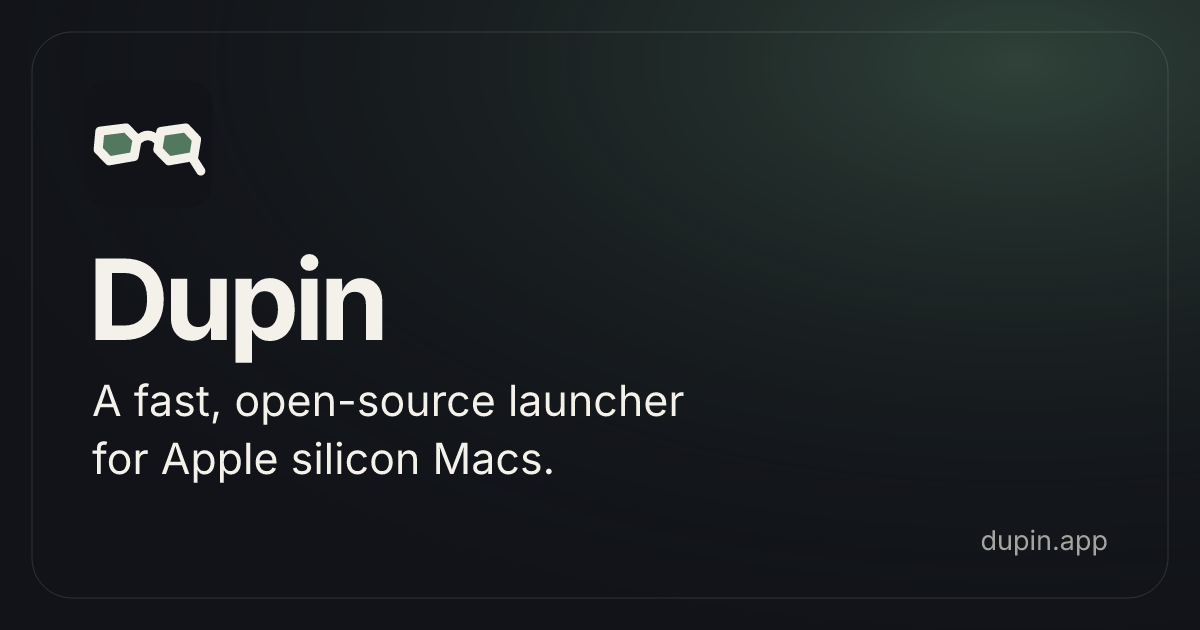
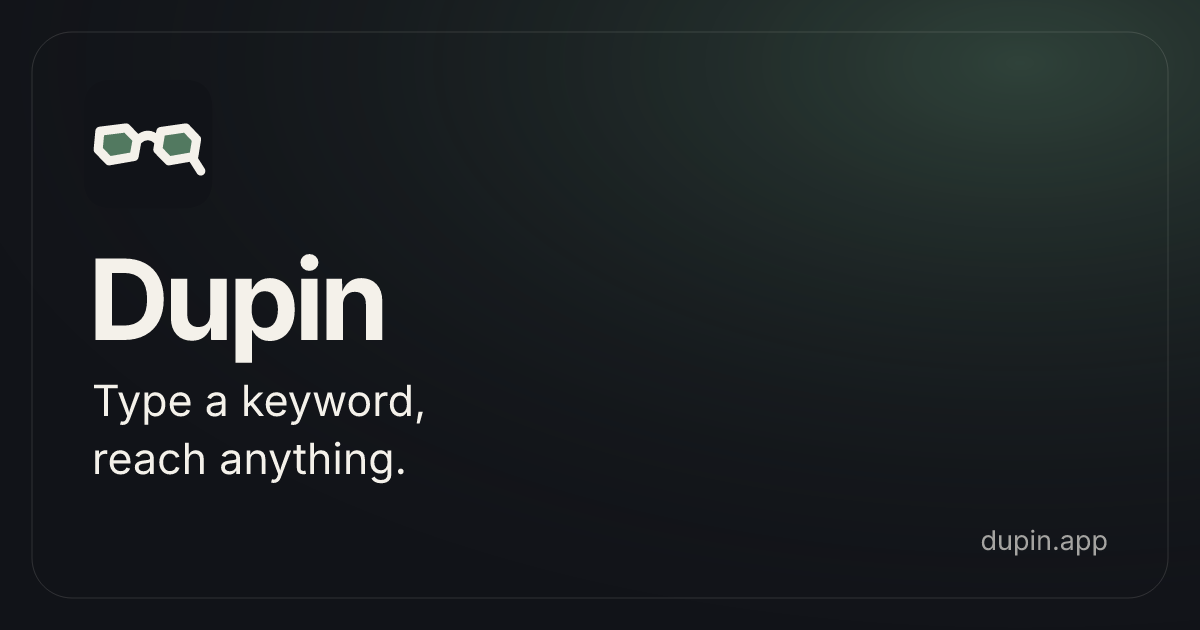
feat(website): say what Dupin is for in the tagline and social card
The link preview read "a fast, open-source launcher for Apple silicon
Macs", which says nothing about why to use it. Lead with what it
does, "type a keyword, reach anything", and describe it as Alfred's
successor with extensions an agent can write. The social image and
the Download page title follow.

Changed region(s): [[0.0617, 0.6032, 0.5858, 0.6937], [0.0617, 0.6937, 0.4625, 0.7841]]

diff --git a/website/src/site.ts b/website/src/site.ts
@@ -4,8 +4,9 @@ export const releasesUrl = `${repo}/releases`;
 export const sponsorUrl = 'https://github.com/sponsors/ryoppippi';
 export const siteUrl = 'https://dupin.app';
 export const siteName = 'Dupin';
-export const tagline = 'a fast, open-source launcher for Apple silicon Macs';
-export const siteDescription = `Dupin is ${tagline}. It stays resident, so when you press ⌘Space the panel is already there.`;
+export const tagline = 'type a keyword, reach anything';
+export const siteDescription =
+	"A light, always-ready Mac launcher: Alfred's successor, with extensions your agent can write.";
 
 export const channels = {
 	stable: {

diff --git a/website/src/host/index.ts b/website/src/host/index.ts
@@ -302,7 +302,7 @@ const staticRoutes: OxContentCustomHostRoute[] = [
 					context,
 					{
 						name: 'download',
-						title: `Download ${siteName}, ${tagline}`,
+						title: `Download ${siteName}`,
 						description:
 							'Download Dupin for Apple silicon Macs: the app, Homebrew casks, or a Nix build.',
 						pathname: '/download/',
